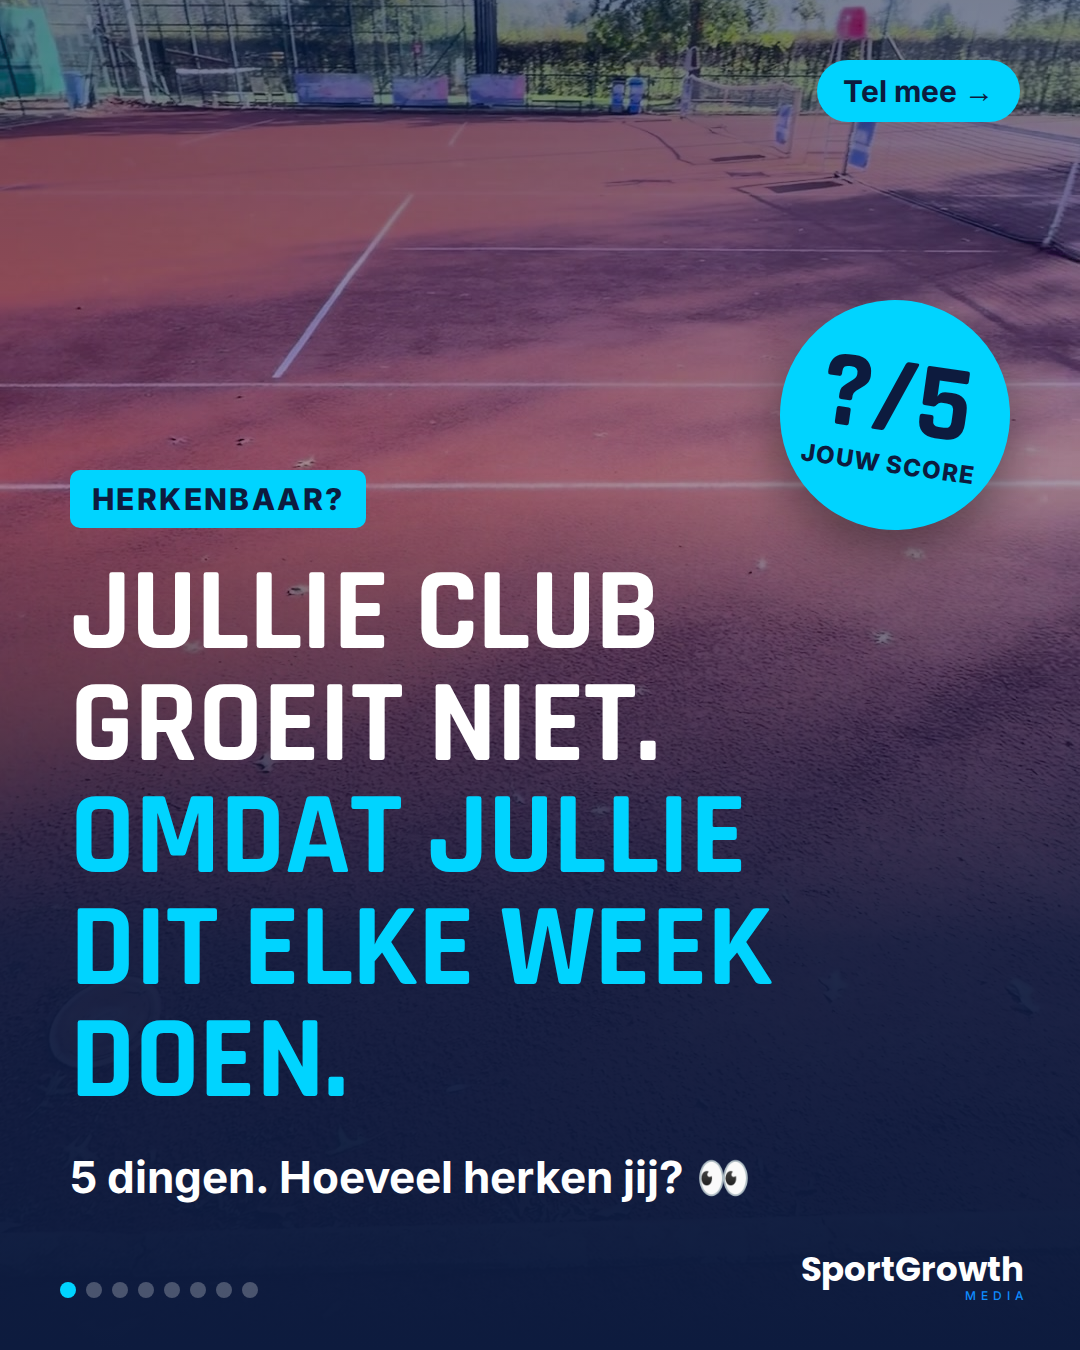
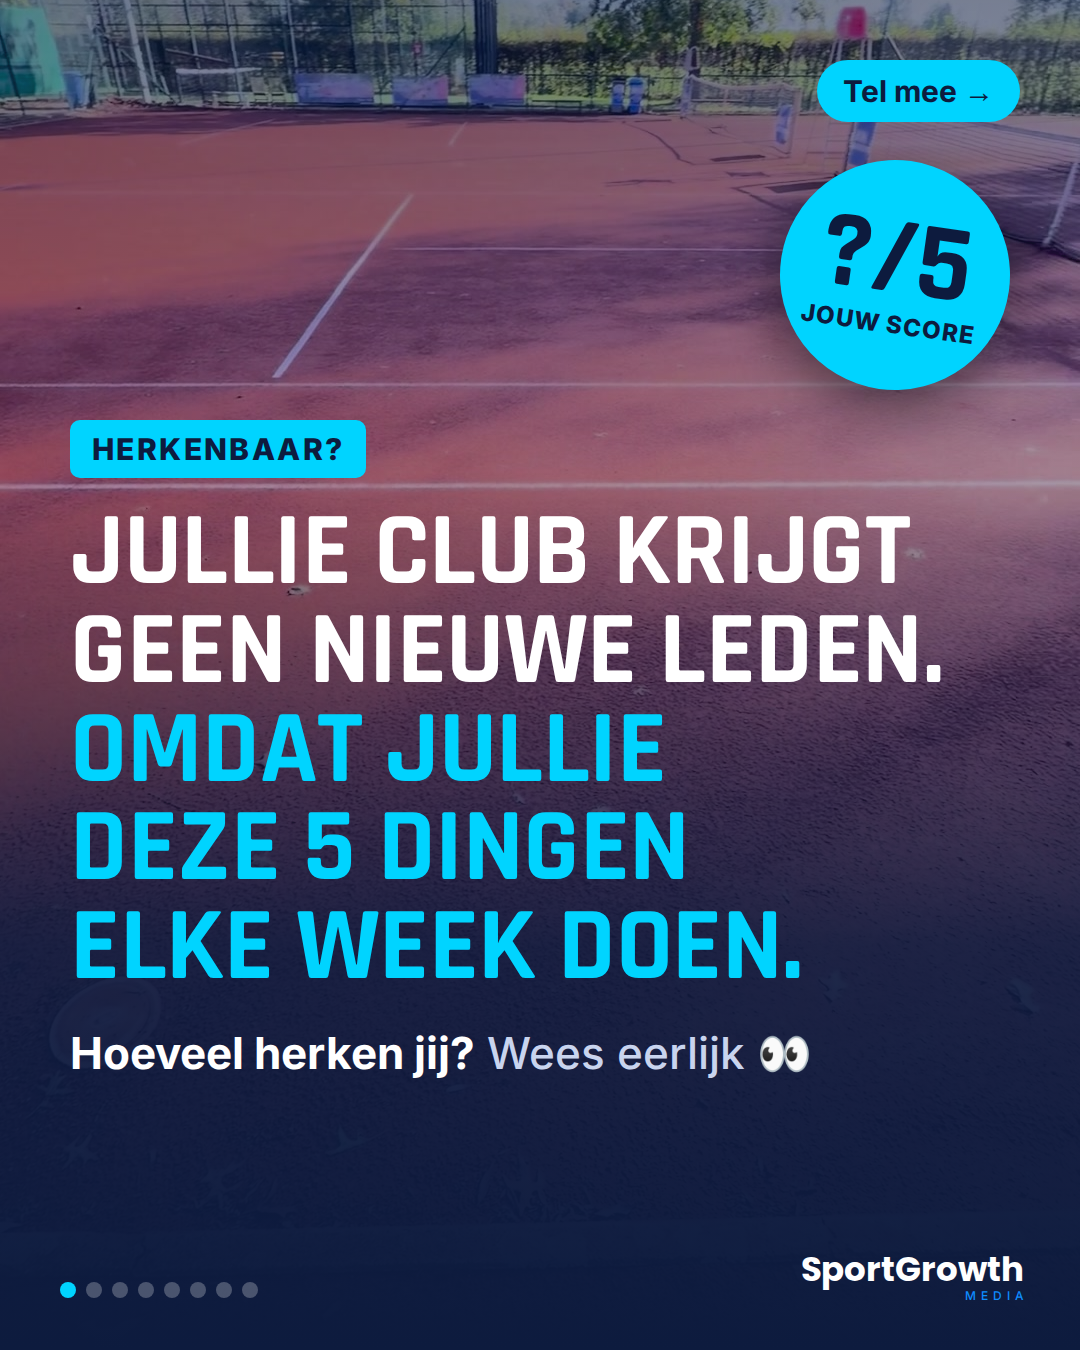
Carrousel 19/10: concretere hook 'krijgt geen nieuwe leden'
Claude-Session: https://claude.ai/code/session_01QkSWZzWLTduRQtPp2zathG

Changed region(s): [[0.0611, 0.0933, 0.9472, 0.8089], [0.0611, 0.84, 0.7028, 0.9022]]

diff --git a/instagram/carrousel-5-tekenen/build.js b/instagram/carrousel-5-tekenen/build.js
@@ -57,12 +57,12 @@ const slides = [];
 slides.push(page(1, `
 <div class="bg" style="background-image:url(file://${B}/tennis-leeg-gravel.jpg)"></div><div class="dim"></div>
 <div class="swipe">Tel mee →</div>
-<div style="position:absolute;left:70px;right:70px;top:470px;display:flex;flex-direction:column;gap:30px">
+<div style="position:absolute;left:70px;right:70px;top:420px;display:flex;flex-direction:column;gap:26px">
 <span class="tag" style="align-self:flex-start">HERKENBAAR?</span>
-<h1>Jullie club<br>groeit niet.<br><span class="c">Omdat jullie<br>dit elke week<br>doen.</span></h1>
-<p class="t" style="font-size:44px"><b>5 dingen. Hoeveel herken jij?</b> 👀</p>
+<h1 style="font-size:104px">Jullie club krijgt<br>geen nieuwe leden.<br><span class="c">Omdat jullie<br>deze 5 dingen<br>elke week doen.</span></h1>
+<p class="t" style="font-size:44px"><b>Hoeveel herken jij?</b> Wees eerlijk 👀</p>
 </div>
-<div style="position:absolute;right:70px;top:300px;width:230px;height:230px;border-radius:50%;background:#00d4ff;color:#0d1b3e;display:flex;flex-direction:column;align-items:center;justify-content:center;transform:rotate(8deg);box-shadow:0 20px 50px rgba(0,0,0,.4)"><span style="font:700 110px/0.9 Rj">?/5</span><span style="font:800 24px In;letter-spacing:.05em">JOUW SCORE</span></div>
+<div style="position:absolute;right:70px;top:160px;width:230px;height:230px;border-radius:50%;background:#00d4ff;color:#0d1b3e;display:flex;flex-direction:column;align-items:center;justify-content:center;transform:rotate(8deg);box-shadow:0 20px 50px rgba(0,0,0,.4)"><span style="font:700 110px/0.9 Rj">?/5</span><span style="font:800 24px In;letter-spacing:.05em">JOUW SCORE</span></div>
 `));
 
 // 2 TEKEN 1: laatste post

diff --git a/instagram/CONTENTSYSTEEM.md b/instagram/CONTENTSYSTEEM.md
@@ -78,7 +78,7 @@ Raakt de eerste regel niet, dan doet de rest er niet toe. Laat de club meteen ie
 |---|---|---|
 | ❌ Slecht | "5 tips voor de Instagram van je club" | Een onderwerp, geen gevoel |
 | 🟡 Beter | "Waarom jullie posten en toch geen nieuwe leden krijgen" | Benoemt de pijn |
-| ✅ Best | "Jullie club groeit niet. Omdat jullie dit elke week doen." | Spreekt de club rechtstreeks aan, legt de schuld bij iets wat ze zelf doen, en belooft het antwoord |
+| ✅ Best | "Jullie club krijgt geen nieuwe leden. Omdat jullie deze 5 dingen elke week doen." | Spreekt de club rechtstreeks aan, legt de schuld bij iets wat ze zelf doen, en belooft het antwoord |
 
 Regels: spreek de club aan met "jullie", noem een gevolg dat pijn doet (leden, groei, een nieuw lid dat elders kiest), wijs naar iets wat ze zelf doen, en verklap het antwoord niet op de cover. Elke hook gaat langs deze ladder vóór hij gebruikt wordt.
 
@@ -125,7 +125,7 @@ Week 12-18/10 blijft zoals gepland (carrousel clubbio, reel 3, reel 4 met nieuwe
 
 | Week | Ma · carrousel | Di · reel 1 | Do · reel 2 |
 |---|---|---|---|
-| **19/10** | HERKENBAAR? "Jullie club groeit niet. Omdat jullie dit elke week doen." (`carrousel-5-tekenen/`) | CLUBTIP: "Jullie bio jaagt nieuwe leden weg. Door één zin." (reel 5) | RESULTAAT: "Jullie posten affiches. Deze club postte iets anders, en bereikte 3.367 mensen." (reel 6, Jan Stilten) |
+| **19/10** | HERKENBAAR? "Jullie club krijgt geen nieuwe leden. Omdat jullie deze 5 dingen elke week doen." (`carrousel-5-tekenen/`) | CLUBTIP: "Jullie bio jaagt nieuwe leden weg. Door één zin." (reel 5) | RESULTAAT: "Jullie posten affiches. Deze club postte iets anders, en bereikte 3.367 mensen." (reel 6, Jan Stilten) |
 | **26/10** | ZO WERKT SGM: "Zo werkt het, in 4 stappen" | CLUBCHECK #1 (TTV of Westerlo met akkoord, anders anoniem) | HERKENBAAR?: "Wie heeft het wachtwoord van onze Instagram?" |
 | **2/11** | CLUBCHECK #1: de nieuwe versie (bio, grid, highlights) | HERKENBAAR?: "Dit is geen post, dit is een affiche" (reel 7 herwerkt) | ZO WERKT SGM: "Zo ziet een opnamemoment eruit" (achter de schermen op je training) |
 | **9/11** | ZO WERKT SGM: "Wat kost een Instagram die leden oplevert?" | CLUBCHECK #2 | RESULTAAT #2 (cijfers van Jan Stilten na 3 maanden, of eerste nieuwe klant) |

diff --git a/instagram/DRAAIBOEK-12-18-OKTOBER.md b/instagram/DRAAIBOEK-12-18-OKTOBER.md
@@ -78,7 +78,7 @@ Link voor stickers: `https://sportgrowthmedia.be/?utm_source=instagram&utm_mediu
 
 ## Volgende week (19 tot 25 oktober)
 - Ma 19/10 19u30: carrousel (Claude maakt de slides op wo 14/10)
-- Ma 19/10 19u30: carrousel "Jullie club groeit niet" (`carrousel-5-tekenen/`)
+- Ma 19/10 19u30: carrousel "Jullie club krijgt geen nieuwe leden" (`carrousel-5-tekenen/`)
 - Di 20/10 19u30: reel 5 "Jullie bio jaagt nieuwe leden weg" (gemonteerd wo 14/10), caption `reels/05-caption.txt`
 - Do 22/10 19u30: reel 6 RESULTAAT Jan Stilten (3 zinnen filmen di 13/10), caption `reels/06-jan-resultaat-caption.txt`
 - Voorraad: reel 7 "Een affiche is geen post"

diff --git a/instagram/plan.md b/instagram/plan.md
@@ -78,7 +78,7 @@ Rode draad: de clubbio. Draaiboek: `DRAAIBOEK-12-18-OKTOBER.md`. Opnames: `SHOTL
 | za 17/10 | - | - | - | - | Training of interclub |
 | zo 18/10 | - | - | - | - | - |
 
-Volgende week: ma 19/10 carrousel "Jullie club groeit niet", di 20/10 reel 5 "Jullie bio jaagt nieuwe leden weg", do 22/10 reel 6 RESULTAAT Jan Stilten. Trainers-reel naar de voorraad (reel 8).
+Volgende week: ma 19/10 carrousel "Jullie club krijgt geen nieuwe leden", di 20/10 reel 5 "Jullie bio jaagt nieuwe leden weg", do 22/10 reel 6 RESULTAAT Jan Stilten. Trainers-reel naar de voorraad (reel 8).
 
 ## Elke dag: 15 minuten reageren (vóór je post)
 
